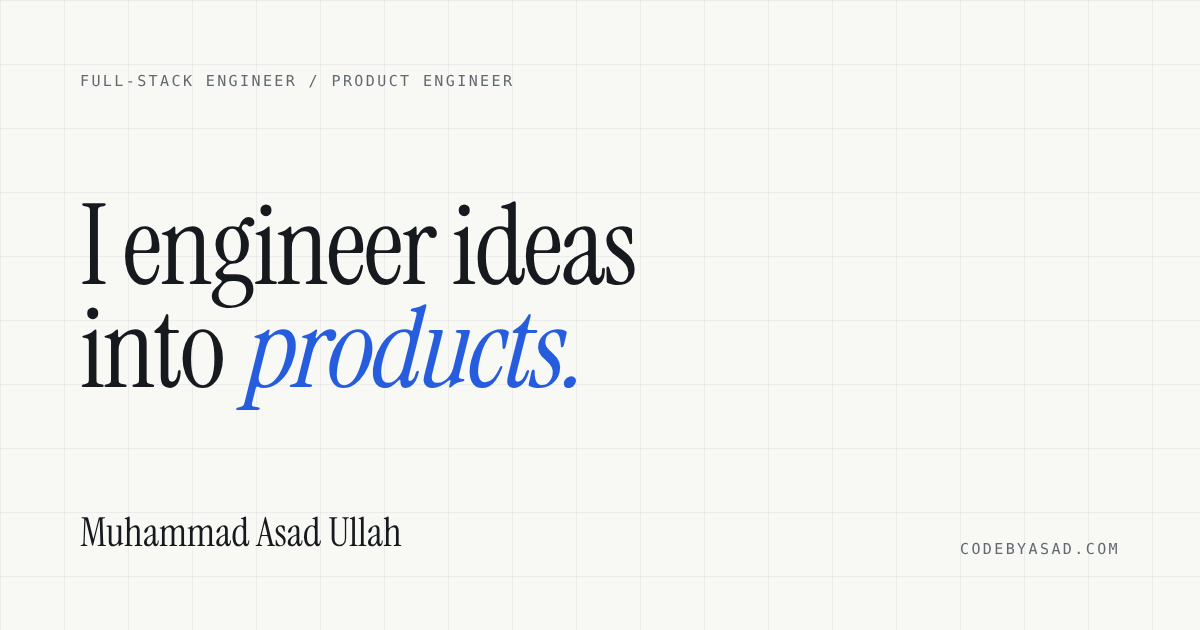
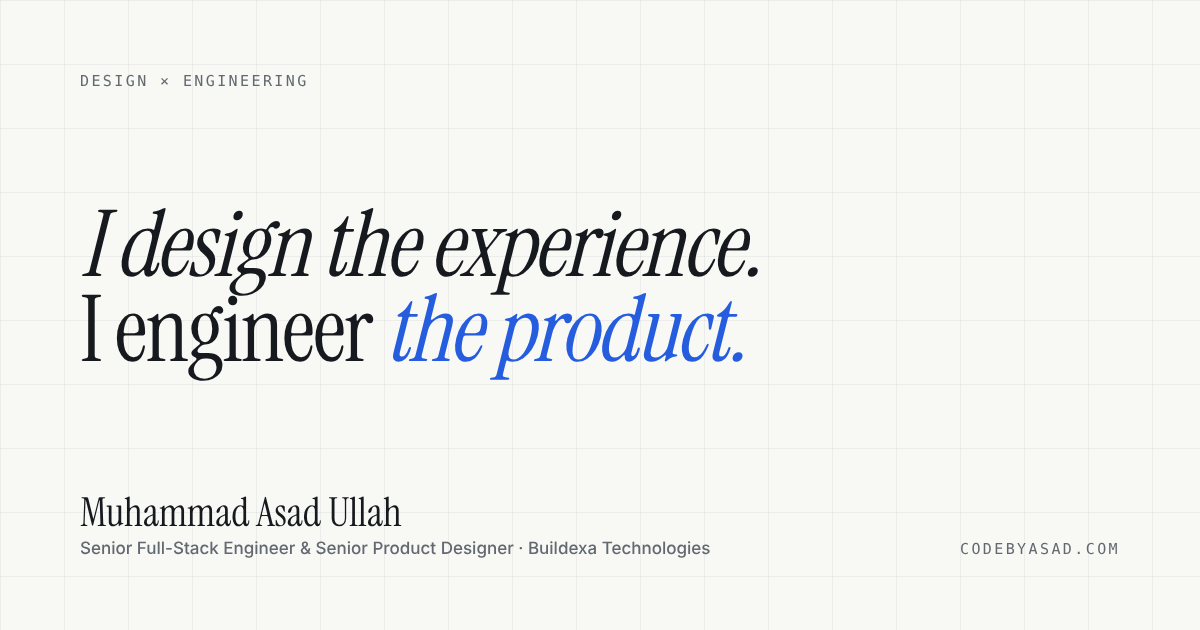
Add current role at Buildexa Technologies and design × engineering positioning
- Buildexa Technologies (Senior Full-Stack Engineer & Senior Product Designer,
  Aug 2026 - present, remote) first in the experience timeline with engineering
  and product-design capability areas; previous roles unchanged
- Hero: "I design the experience. I engineer the product."; Discover -> Design
  -> Architect -> Build -> Deploy -> Improve pipeline; Product Design expertise
- About, Expertise, Resume, Contact, SEO metadata, JSON-LD and OG image updated
- Tests for current role, previous roles and role-project links

Claude-Session: https://claude.ai/code/session_01NQLqAdsdpx1Uko2YEkLBgK

diff --git a/src/content/profile.ts b/src/content/profile.ts
@@ -2,7 +2,8 @@ import type { Link } from "@/types/content";
 
 export const profile = {
   name: "Muhammad Asad Ullah",
-  role: "Full-Stack Engineer / Product Engineer",
+  role: "Senior Full-Stack Engineer & Senior Product Designer",
+  currentCompany: "Buildexa Technologies",
   location: "Multan, Pakistan",
   timezone: "PKT (UTC+5)",
   email: "masadullah1206@gmail.com",
@@ -11,10 +12,12 @@ export const profile = {
   experienceYears: 3,
 
   hero: {
-    label: "Full-Stack Engineer / Product Engineer",
-    headline: ["I engineer", "ideas into", "products."],
+    label: "Design × Engineering",
+    headline: ["I design", "the experience.", "I engineer", "the product."],
+    /** Index of the headline line set in the accent colour. */
+    accentLine: 3,
     support:
-      "Full-Stack Software Engineer building scalable digital products, intelligent systems, and production-ready web and mobile experiences.",
+      "Senior Full-Stack Engineer & Senior Product Designer at Buildexa Technologies, creating thoughtfully designed, scalable digital products from concept to production.",
     ctas: {
       primary: { label: "Explore My Work", href: "/work/" },
       secondary: { label: "View Resume", href: "/resume/" },
@@ -23,25 +26,24 @@ export const profile = {
   },
 
   identity: {
-    headline: "From architecture to production.",
+    label: "Design × Engineering",
+    headline: "From first idea to production.",
     intro:
-      "I take products from a page of requirements to software people rely on — and I stay for what comes after launch. Most of my work is end-to-end: the data model, the API, the interface, the mobile client and the server it all runs on.",
+      "I work on both sides of a product: the experience people see and the systems that make it work. Designing the journey and building the architecture together means fewer hand-offs, and decisions that hold up in production.",
     pipeline: [
-      { step: "Requirements", text: "Turn business needs into roles, workflows and a scope that can ship." },
-      { step: "Architecture", text: "Model data, boundaries and permissions before writing features." },
-      { step: "Backend", text: "REST APIs, authentication and RBAC in Laravel or Node.js/Express." },
-      { step: "Frontend", text: "Responsive interfaces in React, Next.js, Blade and Tailwind." },
-      { step: "Mobile", text: "Cross-platform Flutter apps for Android and iOS, published to stores." },
-      { step: "Data", text: "Relational schemas in MySQL and PostgreSQL; MongoDB and Firebase where they fit." },
-      { step: "Deployment", text: "Linux servers, Nginx, Docker and AWS EC2/S3; release processes." },
-      { step: "Maintenance", text: "Debugging, monitoring and iterating on software in production." },
+      { step: "Discover", discipline: "design", text: "Understand the users, the business and the problem worth solving." },
+      { step: "Design", discipline: "design", text: "User journeys, interaction design and interfaces built on a consistent design system." },
+      { step: "Architect", discipline: "engineering", text: "Data model, boundaries, permissions and APIs planned before features." },
+      { step: "Build", discipline: "engineering", text: "Full-stack implementation — Laravel or Node.js backends, React/Next.js and Flutter clients." },
+      { step: "Deploy", discipline: "engineering", text: "Linux servers, Nginx, Docker and cloud; release processes for web and app stores." },
+      { step: "Improve", discipline: "design", text: "Observe real usage, fix what hurts and refine the experience." },
     ],
   },
 
   about: {
     paragraphs: [
-      "I'm Muhammad Asad Ullah, a Full-Stack Software Engineer from Multan, Pakistan. I build complete web and cross-platform mobile products — frontend interfaces, backend services, REST APIs, databases, authentication, deployment and ongoing production maintenance.",
-      "I enjoy turning practical requirements into maintainable software: responsive web platforms, Flutter applications, multi-role business systems and research implementations. Since 2022 I have freelanced for clients while working with product teams at Cyphersol Technologies and The Code Kraft.",
+      "I'm Muhammad Asad Ullah, a Senior Full-Stack Engineer and Senior Product Designer at Buildexa Technologies, based in Multan, Pakistan and working remotely. I design product experiences and engineer the systems behind them — from user journeys and interfaces to APIs, databases, deployment and ongoing production maintenance.",
+      "I enjoy turning practical requirements into maintainable software: responsive web platforms, Flutter applications, multi-role business systems and research implementations. Before Buildexa I worked with product teams at Cyphersol Technologies and The Code Kraft, alongside freelance work since 2022.",
       "Outside product work I explore computer vision and deep learning, particularly frequency-domain methods and deepfake detection.",
     ],
   },
@@ -61,7 +63,7 @@ export const profile = {
 
   contact: {
     headline: "Let's build something that matters.",
-    text: "I'm interested in Senior Full-Stack, Product Engineering and Backend roles with teams that ship. The fastest way to reach me is email.",
+    text: "I'm a Senior Full-Stack Engineer & Senior Product Designer at Buildexa Technologies. For collaborations and conversations about product design, full-stack engineering or product engineering, email is the fastest way to reach me.",
   },
 
   socials: [

diff --git a/src/components/sections/Timeline.tsx b/src/components/sections/Timeline.tsx
@@ -1,6 +1,8 @@
 import { Fx } from "@/components/animation/Fx";
 import { Award, Briefcase, GraduationCap } from "lucide-react";
+import Link from "next/link";
 import { experience, formatPeriod } from "@/content/experience";
+import { getProject } from "@/content/projects";
 import { SectionHeader } from "@/components/ui/SectionHeader";
 
 const icons = { work: Briefcase, education: GraduationCap, award: Award };
@@ -14,7 +16,7 @@ export function Timeline({ showHeader = true, detailed = false }: { showHeader?:
     <section aria-labelledby="timeline-title" className="border-t hairline py-24 md:py-36">
       <Fx name="timeline" />
       <div className="container-x">
-        {showHeader && <SectionHeader index="07" label="Experience" title="From freelance to product teams." />}
+        {showHeader && <SectionHeader index="07" label="Experience" title="Designing and engineering products — now at Buildexa." />}
         <H id="timeline-title" className="sr-only">Career timeline</H>
         <ol data-timeline className="relative mt-16 md:ml-[25%]">
           <span aria-hidden className="absolute top-0 bottom-0 left-[15px] w-px bg-line" />
@@ -27,14 +29,27 @@ export function Timeline({ showHeader = true, detailed = false }: { showHeader?:
                   <Icon className="size-3.5" />
                 </span>
                 <p className="font-mono text-xs text-muted md:absolute md:top-1.5 md:right-[calc(100%+2rem)] md:w-48 md:text-right">{formatPeriod(r)}</p>
-                <Item className="mt-1 text-xl font-medium md:mt-0">{r.title}</Item>
-                <p className="text-muted">{r.org} · {r.location}</p>
+                <Item className="mt-1 text-xl font-medium md:mt-0">{r.title}{r.current && <span className="ml-3 inline-flex translate-y-[-2px] items-center gap-1.5 rounded-full border border-emerald-600/25 bg-emerald-50 px-2 py-0.5 align-middle font-mono text-[10px] tracking-wider text-emerald-800 uppercase"><span aria-hidden className="size-1.5 rounded-full bg-emerald-600" />Current</span>}</Item>
+                <p className="text-muted">{r.org} · {r.location}{r.workMode ? ` · ${r.workMode}` : ""}</p>
                 {(detailed ? r.points.length > 0 : false) ? (
                   <ul className="mt-4 max-w-2xl list-disc space-y-1.5 pl-5 text-sm leading-relaxed text-muted marker:text-accent">
                     {r.points.map((pt) => <li key={pt}>{pt}</li>)}
                   </ul>
                 ) : (
                   <p className="mt-3 max-w-2xl text-sm leading-relaxed text-muted">{r.summary}</p>
+                )}
+                {r.disciplines && (
+                  <div className={detailed ? "mt-5 grid max-w-3xl gap-4 sm:grid-cols-2" : "mt-4 flex flex-wrap gap-2"}>
+                    {r.disciplines.map((d) => detailed ? (
+                      <div key={d.title} className="rounded-[var(--radius-md)] border hairline bg-surface p-4">
+                        <p className="t-label mb-2">{d.title}</p>
+                        <ul className="space-y-1 text-sm text-muted">{d.items.map((x) => <li key={x}>{x}</li>)}</ul>
+                      </div>
+                    ) : <span key={d.title} className="rounded-full border hairline bg-surface px-3 py-1 font-mono text-[11px]">{d.title}</span>)}
+                  </div>
+                )}
+                {detailed && r.projects && r.projects.length > 0 && (
+                  <p className="mt-4 text-sm text-muted">Related: {r.projects.map((slug, k) => <span key={slug}>{k > 0 && ", "}<Link className="text-ink underline underline-offset-4 hover:text-accent" href={`/work/${slug}/`}>{getProject(slug)?.name ?? slug}</Link></span>)}</p>
                 )}
                 {detailed && r.reported && (
                   <ul className="mt-4 flex flex-wrap gap-2">

diff --git a/src/app/resume/page.tsx b/src/app/resume/page.tsx
@@ -9,7 +9,7 @@ import { pageMetadata } from "@/lib/seo";
 import { Button } from "@/components/ui/Button";
 import { PrintButton } from "@/components/ui/PrintButton";
 
-export const metadata = pageMetadata({ title: "Resume", description: `Resume of ${profile.name}, Full-Stack Software Engineer — experience, skills, projects and education.`, path: "/resume/" });
+export const metadata = pageMetadata({ title: "Resume", description: `Resume of ${profile.name}, ${profile.role} at ${profile.currentCompany} — experience, skills, projects and education.`, path: "/resume/" });
 
 export default function ResumePage() {
   // Only offer a PDF download if the file has actually been added.
@@ -29,7 +29,7 @@ export default function ResumePage() {
         <article className="mx-auto max-w-4xl rounded-[var(--radius-lg)] border hairline bg-surface p-6 shadow-soft sm:p-12 print:border-0 print:p-0 print:shadow-none">
           <header className="border-b hairline pb-8">
             <h1 className="font-display text-5xl sm:text-6xl">{profile.name}</h1>
-            <p className="mt-2 text-lg">Senior Full-Stack Software Engineer · Product Engineer</p>
+            <p className="mt-2 text-lg">{profile.role} · {profile.currentCompany}</p>
             <p className="mt-4 flex flex-wrap gap-x-4 gap-y-1 font-mono text-xs text-muted">
               <span>{profile.location}</span>
               <a href={`mailto:${profile.email}`} className="hover:text-accent">{profile.email}</a>
@@ -41,7 +41,7 @@ export default function ResumePage() {
 
           <section className="border-b hairline py-8" aria-labelledby="r-summary">
             <h2 id="r-summary" className="t-label mb-3">Summary</h2>
-            <p className="leading-relaxed">Full-Stack Software Engineer with 3+ years building and maintaining production web and mobile products — frontend interfaces, REST APIs, databases, authentication, deployment and maintenance. Reported portfolio of 11 published mobile apps and 13 web properties. First place, MNS University Library App Development Competition (2025).</p>
+            <p className="leading-relaxed">Senior Full-Stack Engineer and Senior Product Designer at Buildexa Technologies, with 3+ years designing, building and maintaining production web and mobile products — user experience and interfaces, REST APIs, databases, authentication, deployment and maintenance. Reported portfolio of 11 published mobile apps and 13 web properties. First place, MNS University Library App Development Competition (2025).</p>
           </section>
 
           <section className="border-b hairline py-8" aria-labelledby="r-exp">
@@ -51,10 +51,11 @@ export default function ResumePage() {
                 <div key={r.id} className="break-inside-avoid">
                   <div className="flex flex-wrap items-baseline justify-between gap-2">
                     <h3 className="font-medium">{r.title} — {r.org}</h3>
-                    <p className="font-mono text-xs text-muted">{formatPeriod(r)} · {r.location}</p>
+                    <p className="font-mono text-xs text-muted">{formatPeriod(r)} · {r.location}{r.workMode ? ` · ${r.workMode}` : ""}</p>
                   </div>
                   <ul className="mt-2 list-disc space-y-1 pl-5 text-sm leading-relaxed text-muted">
                     {r.points.map((p) => <li key={p}>{p}</li>)}
+                    {r.disciplines?.map((d) => <li key={d.title}><span className="text-ink">{d.title}:</span> {d.items.join(", ")}</li>)}
                     {r.reported?.map((p) => <li key={p}>{p}</li>)}
                   </ul>
                 </div>

diff --git a/src/components/sections/Identity.tsx b/src/components/sections/Identity.tsx
@@ -13,13 +13,13 @@ export function Identity() {
       <div className="container-x">
         <div className="grid gap-10 lg:grid-cols-12">
           <div className="lg:col-span-7">
-            <SectionHeader index="02" label="Engineering identity" title={identity.headline} />
+            <SectionHeader index="02" label={identity.label} title={identity.headline} />
           </div>
           <p className="t-lead self-end lg:col-span-5" data-reveal>{identity.intro}</p>
         </div>
         <h3 id="identity-title" className="sr-only">Delivery pipeline</h3>
 
-        <ol data-pipeline className="relative mt-20 grid gap-0 lg:mt-28 lg:grid-cols-8 lg:gap-4">
+        <ol data-pipeline className="relative mt-20 grid gap-0 lg:mt-28 lg:grid-cols-6 lg:gap-6">
           <span data-rail aria-hidden className="absolute top-[9px] right-0 left-0 hidden h-px origin-left bg-accent lg:block" />
           <span data-rail-v aria-hidden className="absolute top-2 bottom-2 left-[9px] w-px origin-top bg-accent lg:hidden" />
           {identity.pipeline.map((s, i) => (
@@ -27,7 +27,7 @@ export function Identity() {
               <span aria-hidden className="absolute top-0 left-0 grid size-[19px] place-items-center rounded-full border border-accent bg-surface lg:relative">
                 <span className="size-[7px] rounded-full bg-accent" />
               </span>
-              <p className="font-mono text-[11px] text-accent lg:mt-6">0{i + 1}</p>
+              <p className="flex items-center gap-2 font-mono text-[11px] lg:mt-6"><span className="text-accent">0{i + 1}</span><span className={s.discipline === "design" ? "rounded-full bg-accent-soft px-2 py-0.5 text-accent" : "rounded-full border hairline px-2 py-0.5 text-muted"}>{s.discipline === "design" ? "Design" : "Engineering"}</span></p>
               <h4 className="mt-1 text-lg font-medium">{s.step}</h4>
               <p className="mt-2 text-sm leading-relaxed text-muted">{s.text}</p>
             </li>

diff --git a/src/content/experience.ts b/src/content/experience.ts
@@ -1,7 +1,27 @@
 import type { Role } from "@/types/content";
 
-/** Source: Asad's GitHub profile README (github.com/Asad2512-dev). Newest first. */
+/** Sources: Asad's GitHub profile README and his direct confirmation (Buildexa, Nov 2026). Newest first. */
 export const experience: Role[] = [
+  {
+    id: "buildexa",
+    title: "Senior Full-Stack Engineer & Senior Product Designer",
+    org: "Buildexa Technologies",
+    location: "Pakistan",
+    workMode: "Remote",
+    start: "2026-08",
+    end: "present",
+    current: true,
+    kind: "work",
+    summary: "Current role combining product design and full-stack engineering — shaping the user experience and building the systems behind it.",
+    points: [],
+    disciplines: [
+      { title: "Full-stack engineering", items: ["Frontend and backend development", "Software architecture", "Database design", "API development", "SaaS and product engineering", "Infrastructure and deployment", "Performance and maintainability"] },
+      { title: "Product design", items: ["Product and UX/UI design", "User journeys and interaction design", "Design systems", "Responsive interface design", "Design-to-development workflows", "Usability and visual consistency"] },
+    ],
+    // Buildexa's own website and staff console (repositories in the audit). Other products are not attributed to this role until confirmed.
+    projects: ["buildexa"],
+    pending: ["Specific responsibilities and achievements", "Technologies used in this role", "Which Buildexa products you work on (MenuWave, TotalCashPro, BiteRush, LabelBuddy?)"],
+  },
   {
     id: "codekraft",
     title: "Senior Flutter Developer",

diff --git a/src/components/sections/Expertise.tsx b/src/components/sections/Expertise.tsx
@@ -9,7 +9,7 @@ export function Expertise({ showHeader = true }: { showHeader?: boolean }) {
   return (
     <section aria-labelledby="expertise-title" className="border-t hairline bg-surface py-24 md:py-36">
       <div className="container-x">
-        {showHeader && <SectionHeader index="06" label="Technology expertise" title="A working atlas, not a logo wall." />}
+        {showHeader && <SectionHeader index="06" label="Design × Engineering" title="Two disciplines, one product mindset." />}
         <H id="expertise-title" className="sr-only">Expertise areas</H>
         <ul className="mt-14 grid border-t border-l hairline sm:grid-cols-2 lg:grid-cols-3">
           {skillGroups.map((g, i) => (
@@ -25,7 +25,7 @@ export function Expertise({ showHeader = true }: { showHeader?: boolean }) {
                   <li key={s} className="rounded-full border hairline px-2.5 py-1 font-mono text-[11px] text-muted transition-colors duration-500 group-hover:border-accent/40 group-hover:bg-accent-soft/50 group-hover:text-ink group-focus-visible:border-accent/40 group-focus-visible:bg-accent-soft/50 group-focus-visible:text-ink">{s}</li>
                 ))}
               </ul>
-              <p className="mt-5 font-mono text-[10px] tracking-wider text-muted uppercase">Used in · {g.usedIn.join(" · ")}</p>
+              {g.usedIn.length > 0 && <p className="mt-5 font-mono text-[10px] tracking-wider text-muted uppercase">Used in · {g.usedIn.join(" · ")}</p>}
             </li>
           ))}
         </ul>

diff --git a/src/app/experience/page.tsx b/src/app/experience/page.tsx
@@ -3,12 +3,12 @@ import { PageHero } from "@/components/ui/PageHero";
 import { Timeline } from "@/components/sections/Timeline";
 import { Button } from "@/components/ui/Button";
 
-export const metadata = pageMetadata({ title: "Experience", description: "Roles at The Code Kraft, Cyphersol Technologies and as a freelance software engineer, plus awards and education.", path: "/experience/" });
+export const metadata = pageMetadata({ title: "Experience", description: "Senior Full-Stack Engineer & Senior Product Designer at Buildexa Technologies; previously The Code Kraft, Cyphersol Technologies and as a freelance software engineer, plus awards and education.", path: "/experience/" });
 
 export default function ExperiencePage() {
   return (
     <>
-      <PageHero label="Experience" title="Roles, teams and milestones." lead="Freelancing since October 2022 alongside product teams — Flutter, full-stack web and the infrastructure underneath." />
+      <PageHero label="Experience" title="Roles, teams and milestones." lead="Currently Senior Full-Stack Engineer & Senior Product Designer at Buildexa Technologies — after Flutter and full-stack roles at The Code Kraft and Cyphersol, and freelance work since October 2022." />
       <Timeline showHeader={false} detailed />
       <div className="container-x pb-24"><Button href="/resume/" variant="secondary" icon={false}>Full resume</Button></div>
     </>

diff --git a/tests/content.test.ts b/tests/content.test.ts
@@ -105,6 +105,29 @@ describe("repository map", () => {
 });
 
 describe("profile content", () => {
+  it("lists Buildexa Technologies first as the current role", () => {
+    const [first] = experience;
+    expect(first.org).toBe("Buildexa Technologies");
+    expect(first.title).toBe("Senior Full-Stack Engineer & Senior Product Designer");
+    expect(first.end).toBe("present");
+    expect(first.current).toBe(true);
+    expect(experience.filter((r) => r.current)).toHaveLength(1);
+  });
+
+  it("keeps every previous role", () => {
+    ["The Code Kraft", "Cyphersol Technologies", "Self-employed"].forEach((org) => expect(experience.some((r) => r.org === org && r.kind === "work")).toBe(true));
+  });
+
+  it("only links roles to projects that exist", () => {
+    experience.forEach((r) => (r.projects ?? []).forEach((slug) => expect(allProjects.some((p) => p.slug === slug), slug).toBe(true)));
+  });
+
+  it("presents both disciplines in the profile", () => {
+    expect(profile.role).toContain("Full-Stack Engineer");
+    expect(profile.role).toContain("Product Designer");
+    expect(profile.hero.support).toContain("Buildexa Technologies");
+  });
+
   it("every stat is verified or explicitly self-reported", () => {
     stats.forEach((s) => expect(["verified", "reported", "pending"]).toContain(s.status));
   });

diff --git a/src/content/skills.ts b/src/content/skills.ts
@@ -1,6 +1,7 @@
 import type { SkillGroup } from "@/types/content";
 
 export const skillGroups: SkillGroup[] = [
+  { id: "design", title: "Product Design", summary: "Experiences designed with the system that will build them in mind.", skills: ["Product design", "UX/UI design", "User journeys", "Interaction design", "Design systems", "Responsive interfaces", "Design-to-development", "Usability"], usedIn: [] },
   { id: "frontend", title: "Frontend Engineering", summary: "Responsive, accessible interfaces for multi-role products.", skills: ["React", "Next.js", "TypeScript", "JavaScript", "Tailwind CSS", "Laravel Blade", "Alpine.js", "Vite"], usedIn: ["ClubSync", "Voice Library", "UniSecure admin"] },
   { id: "backend", title: "Backend Engineering", summary: "APIs, authentication, RBAC and business logic.", skills: ["Node.js", "Express.js", "Laravel", "PHP", "REST APIs", "JWT / OAuth2", "RBAC", "Sequelize", "Eloquent"], usedIn: ["UniSecure", "ClubSync", "Electronic Voting Machine"] },
   { id: "mobile", title: "Mobile Engineering", summary: "Cross-platform apps shipped to Android and iOS.", skills: ["Flutter", "Dart", "GetX", "Provider", "Firebase", "Push notifications", "Flutter Web"], usedIn: ["11 published apps", "UniSecure app", "Cyphersol products"] },

diff --git a/src/app/expertise/page.tsx b/src/app/expertise/page.tsx
@@ -3,12 +3,12 @@ import { PageHero } from "@/components/ui/PageHero";
 import { Expertise } from "@/components/sections/Expertise";
 import { Systems } from "@/components/sections/Systems";
 
-export const metadata = pageMetadata({ title: "Expertise", description: "Frontend, backend, mobile, databases, cloud infrastructure and AI research — the tools and where they were used.", path: "/expertise/" });
+export const metadata = pageMetadata({ title: "Expertise", description: "Product design, UX/UI and design systems, plus frontend, backend, mobile, databases, cloud infrastructure and AI research — the tools and where they were used.", path: "/expertise/" });
 
 export default function ExpertisePage() {
   return (
     <>
-      <PageHero label="Expertise" title="Depth across the whole stack." lead="Grouped by the job each tool does, with the projects where I used it." />
+      <PageHero label="Expertise" title="Design × Engineering." lead="Product design and full-stack engineering — the experience people use and the systems behind it." />
       <Expertise showHeader={false} />
       <Systems />
     </>

diff --git a/src/app/layout.tsx b/src/app/layout.tsx
@@ -26,13 +26,14 @@ const personLd = {
   "@context": "https://schema.org",
   "@type": "Person",
   name: profile.name,
-  jobTitle: "Full-Stack Software Engineer",
+  jobTitle: profile.role,
+  worksFor: { "@type": "Organization", name: profile.currentCompany },
   url: site.url,
   email: `mailto:${profile.email}`,
   address: { "@type": "PostalAddress", addressLocality: "Multan", addressCountry: "PK" },
   alumniOf: { "@type": "CollegeOrUniversity", name: "National University of Modern Languages (NUML)" },
   sameAs: profile.socials.filter((s) => s.href.startsWith("http")).map((s) => s.href),
-  knowsAbout: ["React", "Next.js", "TypeScript", "Node.js", "Laravel", "Flutter", "MySQL", "PostgreSQL", "AWS", "Docker"],
+  knowsAbout: ["Product design", "UX/UI design", "Design systems", "React", "Next.js", "TypeScript", "Node.js", "Laravel", "Flutter", "MySQL", "PostgreSQL", "AWS", "Docker"],
 };
 
 export default function RootLayout({ children }: { children: React.ReactNode }) {

diff --git a/src/components/sections/Hero.tsx b/src/components/sections/Hero.tsx
@@ -15,10 +15,10 @@ export function Hero() {
         <div className="container-x relative grid h-full grid-rows-[auto_1fr] items-center pt-24 md:grid-cols-12 md:grid-rows-1 md:pt-20">
           <div data-hero-copy className="relative z-10 md:col-span-7">
             <p className="hero-fade t-label mb-6" style={{ animationDelay: "0s" }} data-hero-fade>{hero.label}</p>
-            <h1 id="hero-title" className="t-hero">
+            <h1 id="hero-title" className="t-hero t-hero--split">
               {hero.headline.map((line, i) => (
                 <span key={line} className="mask">
-                  <span className={`hero-line ${i === 2 ? "italic text-accent" : ""}`} style={{ animationDelay: `${i * 0.12}s` }}>{line}</span>
+                  <span className={`hero-line ${i === hero.accentLine ? "italic text-accent" : i % 2 ? "italic" : ""}`} style={{ animationDelay: `${i * 0.12}s` }}>{line}</span>
                 </span>
               ))}
             </h1>
